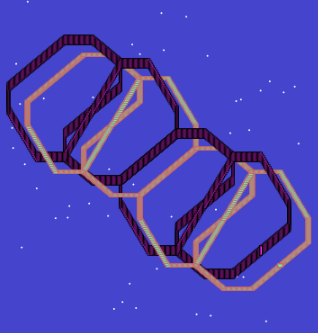
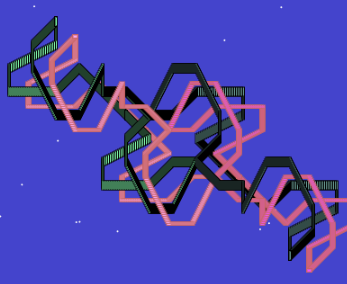
Mirrored weaves.

diff --git a/js/art/80s.js b/js/art/80s.js
@@ -75,7 +75,7 @@ function setup() {
 
   maxline = 400;
   balls = [];
-  item_count = random(1,1);
+  item_count = 2;
 
 
   // base_path = [1,1,1,-1]; // squarish
@@ -113,10 +113,16 @@ function setup() {
 
   weave_template = Object(weave);
 
+  startx = [330, 70];
+  starty = [330, 70];
+
   for(i=0;i<item_count;i++){
     newb = Object.assign({}, weave_template);
-    newb.x = 330;
-    newb.y = 300 + i * 40; // Make sure they each start offset a bit
+
+    newb.x = startx[i];
+    newb.y = starty[i]; // Make sure they each start offset a bit
+
+
     newb.color = fresh_color();
     newb.color2 = fresh_color();
 
@@ -126,7 +132,6 @@ function setup() {
     newb.sequence = newb.sequence.concat(seq1);
     newb.sequence = newb.sequence.concat(seq2);
 
-    console.debug(newb);
     balls.push(newb);
   }
   noStroke();

diff --git a/js/art/latest.js b/js/art/latest.js
@@ -75,7 +75,7 @@ function setup() {
 
   maxline = 400;
   balls = [];
-  item_count = random(1,1);
+  item_count = 2;
 
 
   // base_path = [1,1,1,-1]; // squarish
@@ -113,10 +113,16 @@ function setup() {
 
   weave_template = Object(weave);
 
+  startx = [330, 70];
+  starty = [330, 70];
+
   for(i=0;i<item_count;i++){
     newb = Object.assign({}, weave_template);
-    newb.x = 330;
-    newb.y = 300 + i * 40; // Make sure they each start offset a bit
+
+    newb.x = startx[i];
+    newb.y = starty[i]; // Make sure they each start offset a bit
+
+
     newb.color = fresh_color();
     newb.color2 = fresh_color();
 
@@ -126,7 +132,6 @@ function setup() {
     newb.sequence = newb.sequence.concat(seq1);
     newb.sequence = newb.sequence.concat(seq2);
 
-    console.debug(newb);
     balls.push(newb);
   }
   noStroke();

diff --git a/art/live/index.md b/art/live/index.md
@@ -14,6 +14,7 @@ I created these using the [P5.js library][1].
 Try clicking the art. Some of them interact.
 
 <!-- 
+-->
 ## Latest Sketch
 
 [
@@ -21,7 +22,6 @@ Try clicking the art. Some of them interact.
 ](/art/live/latest)
 
 [Latest Sketch in Progress](/art/live/latest)
--->
 
 ## 80s Weave
 
